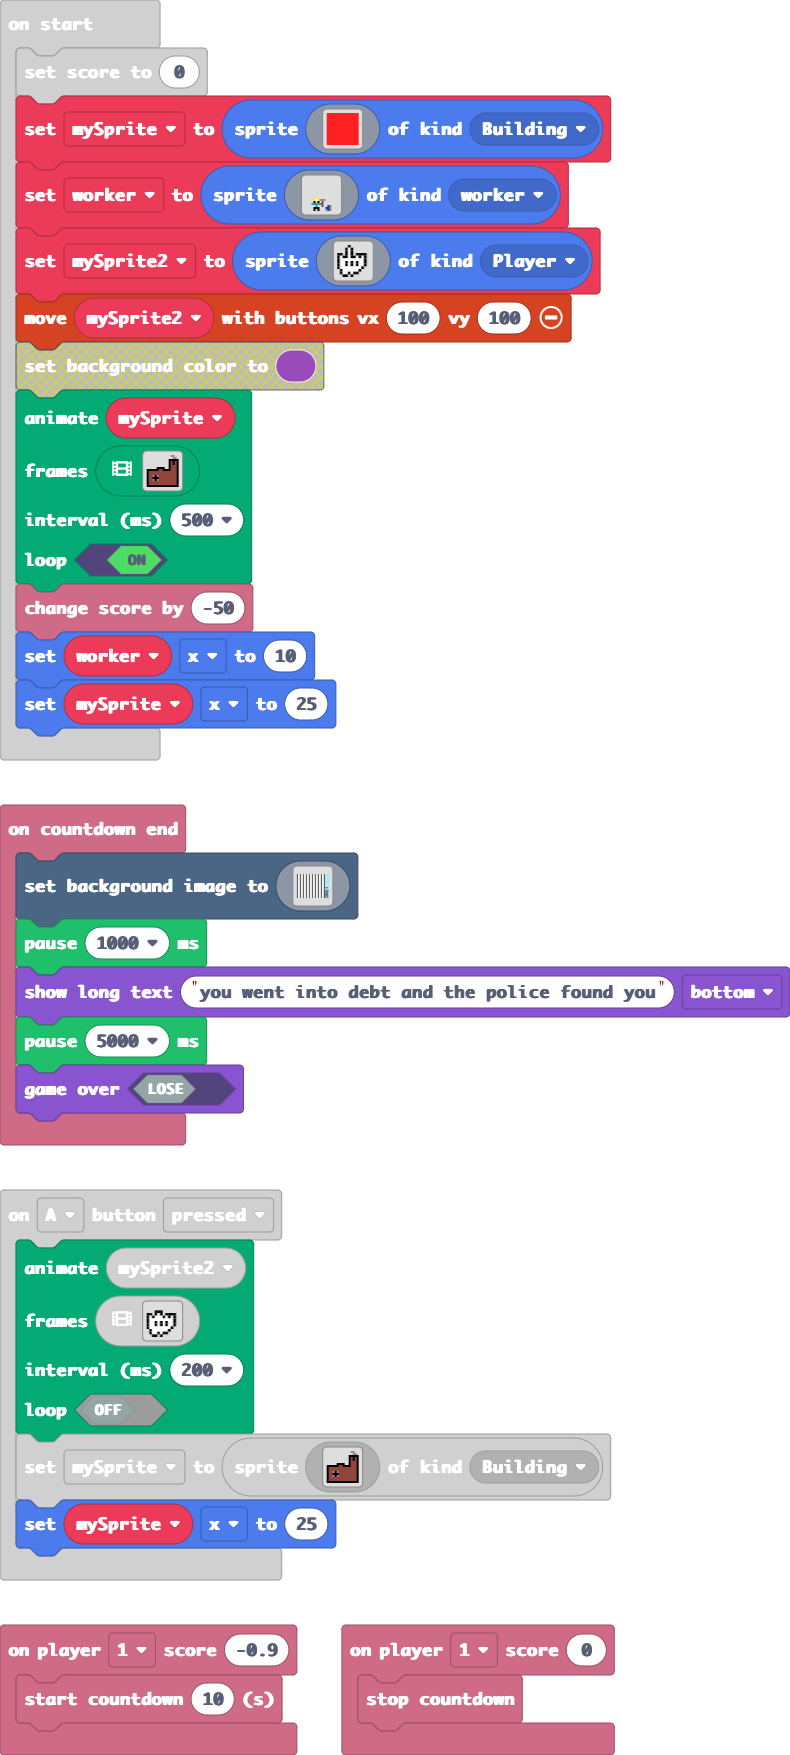
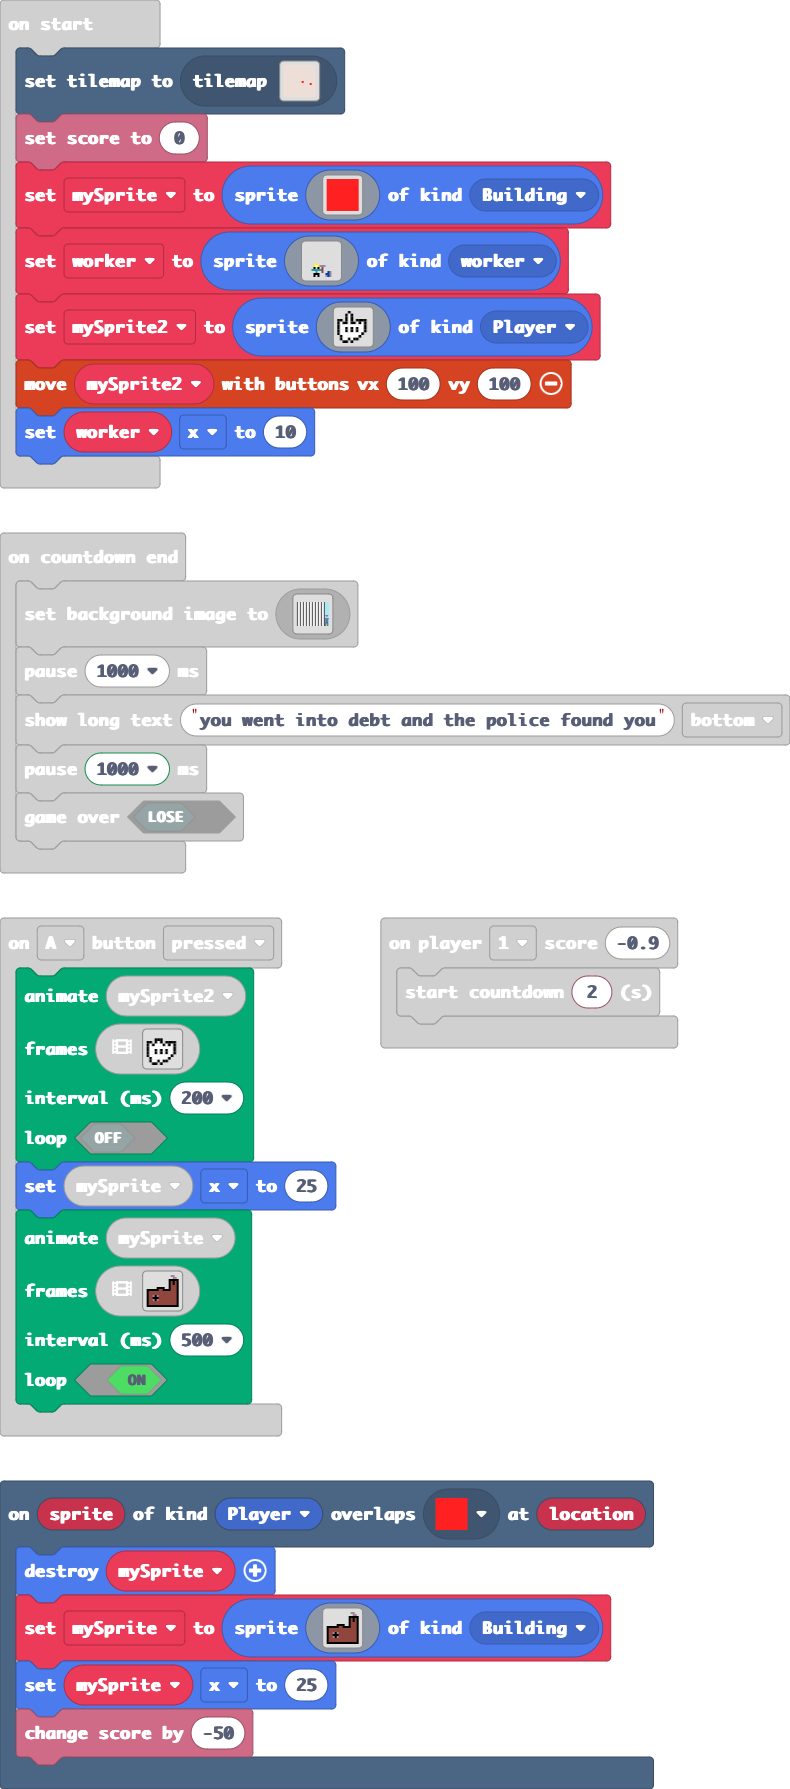
Update main.blocks, main.ts, tilemap.g.jres, tilemap.g.ts

diff --git a/tilemap.g.ts b/tilemap.g.ts
@@ -8,6 +8,8 @@ namespace myTiles {
     export const tile2 = image.ofBuffer(hex``);
     //% fixedInstance jres blockIdentity=images._tile
     export const tile3 = image.ofBuffer(hex``);
+    //% fixedInstance jres blockIdentity=images._tile
+    export const tile4 = image.ofBuffer(hex``);
 
     helpers._registerFactory("tilemap", function(name: string) {
         switch(helpers.stringTrim(name)) {
@@ -30,8 +32,27 @@ namespace myTiles {
 . . . . . . . . . . . . . . . . 
 . . . . . . . . . . . . . . . . 
 `, [myTiles.transparency16], TileScale.Sixteen);
+            case "level3":
+            case "level3":return tiles.createTilemap(hex`1000100000000000000000000000000000000000000000000000000000000000000000000000000000000000000000000000000000000000000000000000000000000000000000000000000000000000000000000000000000000000000000000000000000000000000000000000000000000000000000000000000000000000000000000000000000000000000000000000000000000000000000000000000000000000000000000000000000000000000000000000000000000000000000000000000000000000000000000000000000000000000000000000000000000000000000000000000000000000000000000000000000000000000000000000000000000000`, img`
+. . . . . . . . . . . . . . . . 
+. . . . . . . . . . . . . . . . 
+. . . . . . . . . . . . . . . . 
+. . . . . . . . . . . . . . . . 
+. . . . . . . . . . . . . . . . 
+. . . . . . . . . . . . . . . . 
+. . . . . . . . . . . . . . . . 
+. . . . . . . . . . . . . . . . 
+. . . . . . . . . . . . . . . . 
+. . . . . . . . . . . . . . . . 
+. . . . . . . . . . . . . . . . 
+. . . . . . . . . . . . . . . . 
+. . . . . . . . . . . . . . . . 
+. . . . . . . . . . . . . . . . 
+. . . . . . . . . . . . . . . . 
+. . . . . . . . . . . . . . . . 
+`, [myTiles.transparency16], TileScale.Sixteen);
             case "level2":
-            case "level2":return tiles.createTilemap(hex`1000100002030302030302030302030302030302020303020303020303020303020303020203030203030203030203030203030202030302030302030302030302030302020303020303020303020303020303020203030203030203030203030203030202030302030302030302030302030302020303020303020303020303020303020203030203030203030203030203030202030302030302030302030302030302020303020303020303020303020303020203030203030203030203030203030202030302030302030302030302030302020303020303020303020303020303020203030203030203030203030203030202030302030302030302030302030302`, img`
+            case "level2":return tiles.createTilemap(hex`1000100001010101010101010101010101010101010101010101010101010101010101010101010101010101010101010101010101010101010101010101010101010101010101010101010101010101010101010101010101010101010101010101010101010101010101010101010101010101010101010101010101010101010101010101010101010101010201010101010101010101010101010101010101020101010101010101010101010101010101010101010101010101010101010101010101010101010101010101010101010101010101010101010101010101010101010101010101010101010101010101010101010101010101010101010101010101`, img`
 . . . . . . . . . . . . . . . . 
 . . . . . . . . . . . . . . . . 
 . . . . . . . . . . . . . . . . 
@@ -48,7 +69,7 @@ namespace myTiles {
 . . . . . . . . . . . . . . . . 
 . . . . . . . . . . . . . . . . 
 . . . . . . . . . . . . . . . . 
-`, [myTiles.transparency16,myTiles.tile1,myTiles.tile2,myTiles.tile3], TileScale.Sixteen);
+`, [myTiles.transparency16,sprites.builtin.brick,myTiles.tile4], TileScale.Sixteen);
         }
         return null;
     })
@@ -62,6 +83,8 @@ namespace myTiles {
             case "tile2":return tile2;
             case "myTile1":
             case "tile3":return tile3;
+            case "myTile2":
+            case "tile4":return tile4;
         }
         return null;
     })

diff --git a/main.ts b/main.ts
@@ -35,24 +35,6 @@ controller.A.onEvent(ControllerButtonEvent.Pressed, function () {
     200,
     false
     )
-    mySprite = sprites.create(img`
-        . . . . . . . . . . . . b b . . 
-        . . . . . . . . . . . . . b b . 
-        . . . . . . . . . . . f f f f f 
-        . . . . . . . . . . . f e f e f 
-        . . . . . . . . . . . f e f e f 
-        . . . . . . . . . . . f e e e f 
-        . . . . . f f f f . . f e e e f 
-        f f f f f f e e f f f f e e e f 
-        f e e e e e e e e e e e e e e f 
-        f e e e e e e e e e e e e e e f 
-        f e e b f b e e e e e e e e e f 
-        f e e f f f e e e e e e e e e f 
-        f e e b f b e e e e e e e e e f 
-        f e e e e e e e e e e e e e e f 
-        f e e e e e e e e e e e e e e f 
-        f f f f f f f f f f f f f f f f 
-        `, SpriteKind.Building)
     mySprite.x = 25
     animation.runImageAnimation(
     mySprite,
@@ -145,7 +127,6 @@ controller.A.onEvent(ControllerButtonEvent.Pressed, function () {
     500,
     true
     )
-    info.changeScoreBy(-50)
 })
 info.onCountdownEnd(function () {
     scene.setBackgroundImage(img`
@@ -272,20 +253,44 @@ info.onCountdownEnd(function () {
         `)
     pause(1000)
     game.showLongText("you went into debt and the police found you", DialogLayout.Bottom)
-    pause(5000)
+    pause(1000)
     game.gameOver(false)
 })
 info.onScore(10000, function () {
     game.gameOver(true)
 })
+scene.onOverlapTile(SpriteKind.Player, assets.tile`myTile2`, function (sprite, location) {
+    sprites.destroy(mySprite)
+    mySprite = sprites.create(img`
+        . . . . . . . . . . . . b b . . 
+        . . . . . . . . . . . . . b b . 
+        . . . . . . . . . . . f f f f f 
+        . . . . . . . . . . . f e f e f 
+        . . . . . . . . . . . f e f e f 
+        . . . . . . . . . . . f e e e f 
+        . . . . . f f f f . . f e e e f 
+        f f f f f f e e f f f f e e e f 
+        f e e e e e e e e e e e e e e f 
+        f e e e e e e e e e e e e e e f 
+        f e e b f b e e e e e e e e e f 
+        f e e f f f e e e e e e e e e f 
+        f e e b f b e e e e e e e e e f 
+        f e e e e e e e e e e e e e e f 
+        f e e e e e e e e e e e e e e f 
+        f f f f f f f f f f f f f f f f 
+        `, SpriteKind.Building)
+    mySprite.x = 25
+    info.changeScoreBy(-50)
+})
 info.player1.onScore(0, function () {
     info.stopCountdown()
 })
 info.player1.onScore(-0.9, function () {
-    info.startCountdown(10)
+    info.startCountdown(2)
 })
 let mySprite2: Sprite = null
 let mySprite: Sprite = null
+tiles.setCurrentTilemap(tilemap`level2`)
 info.setScore(0)
 mySprite = sprites.create(img`
     2 2 2 2 
@@ -327,7 +332,6 @@ mySprite2 = sprites.create(img`
     `, SpriteKind.Player)
 controller.moveSprite(mySprite2, 100, 100)
 worker.x = 10
-mySprite.x = 25
 game.onUpdateInterval(2000, function () {
     animation.runImageAnimation(
     worker,
